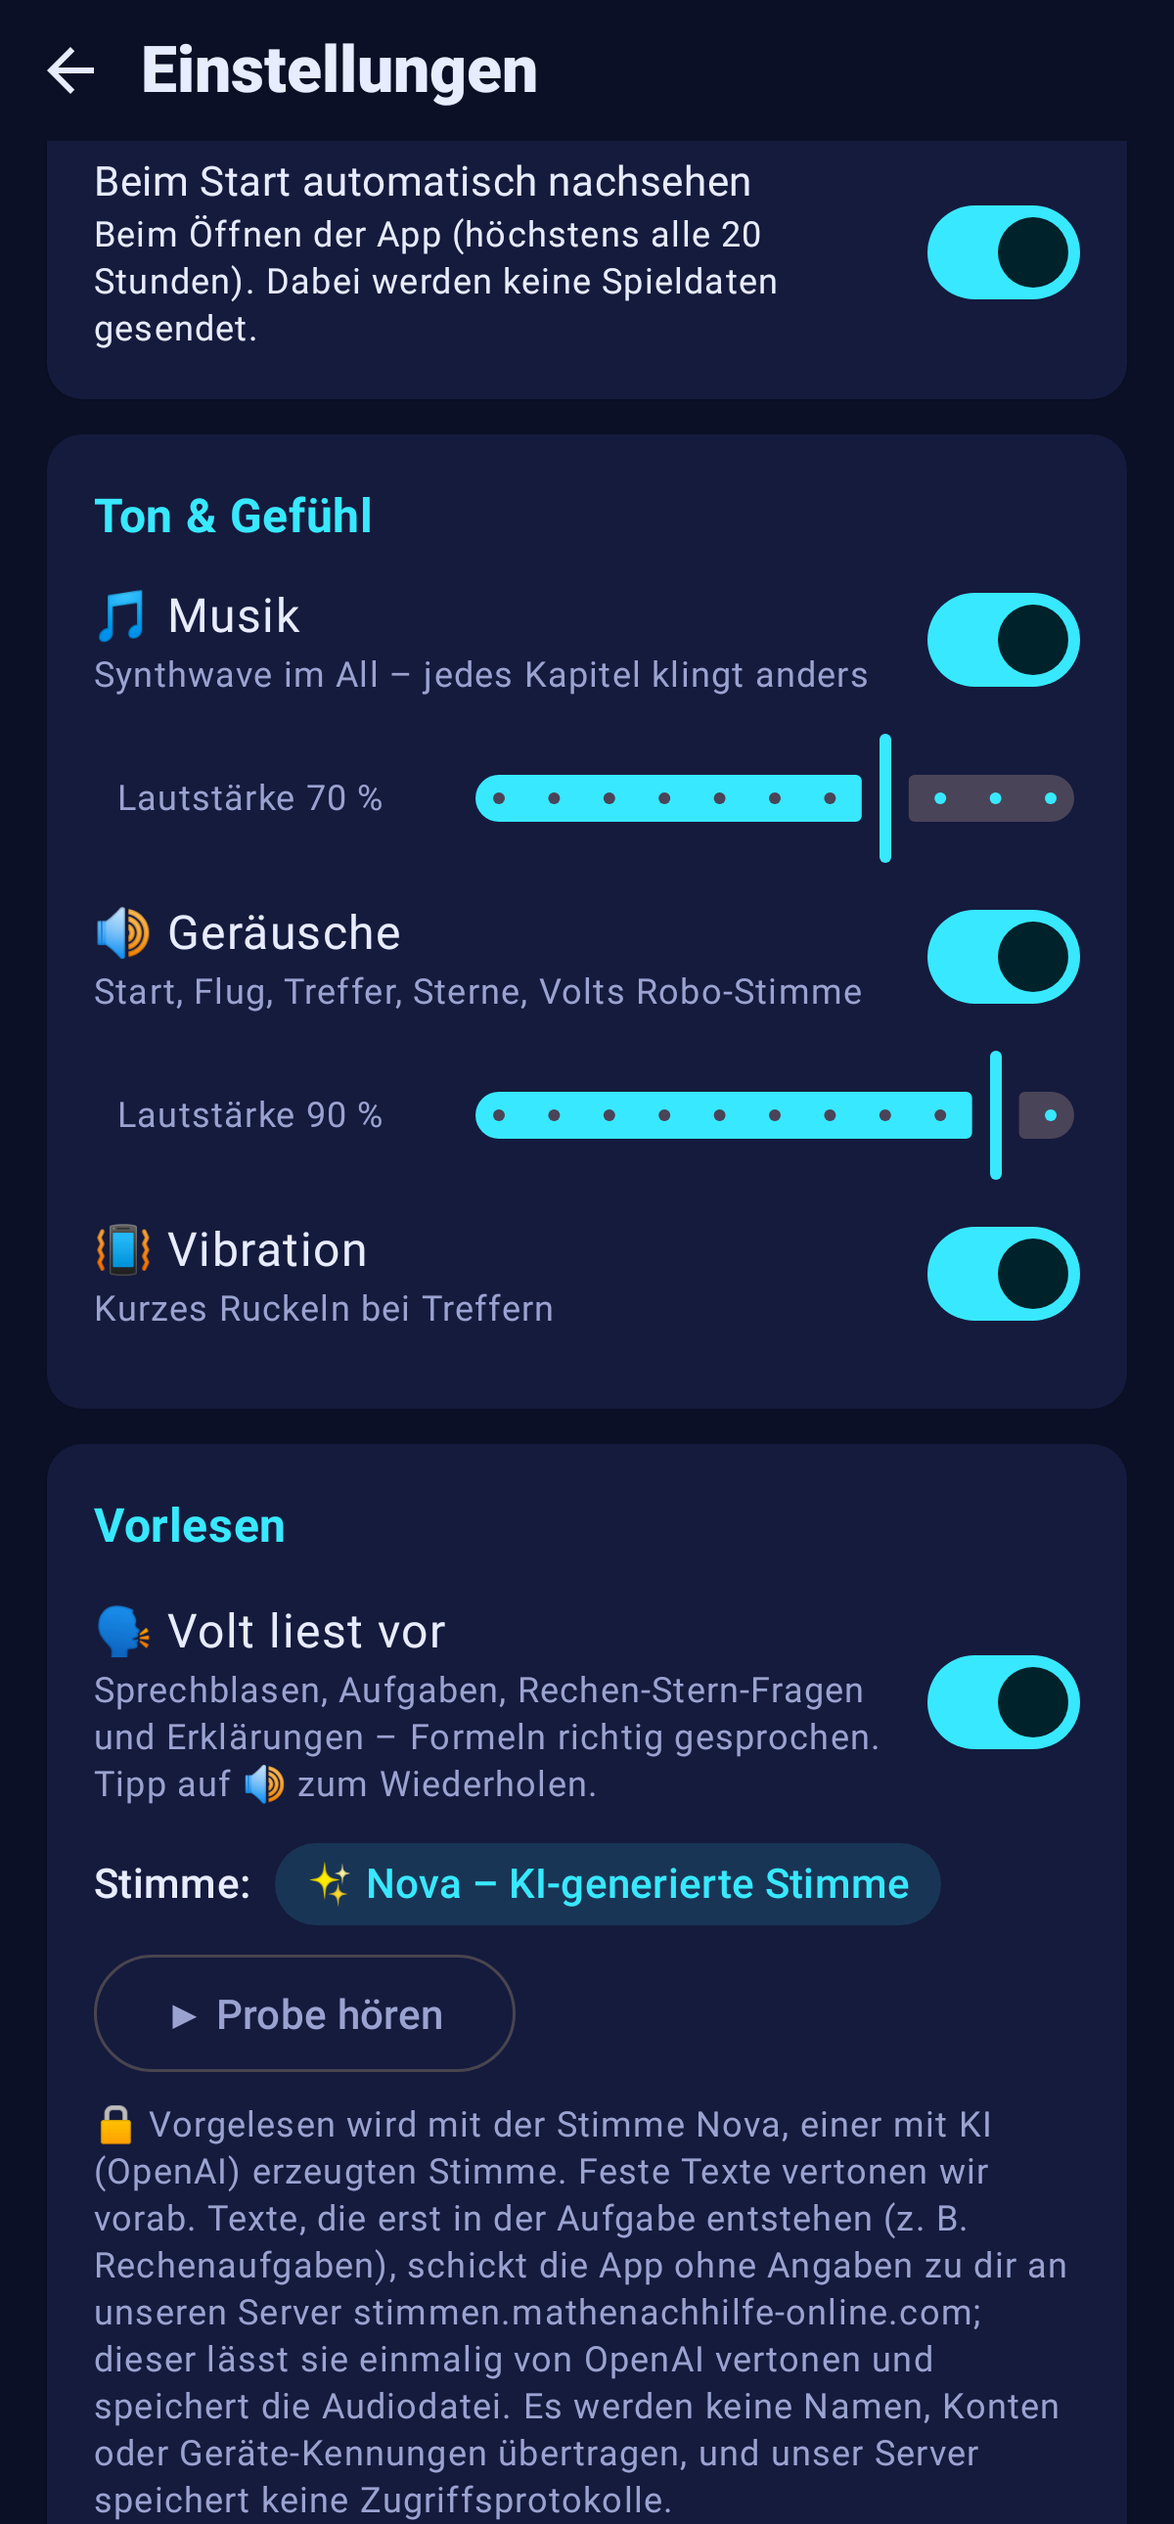
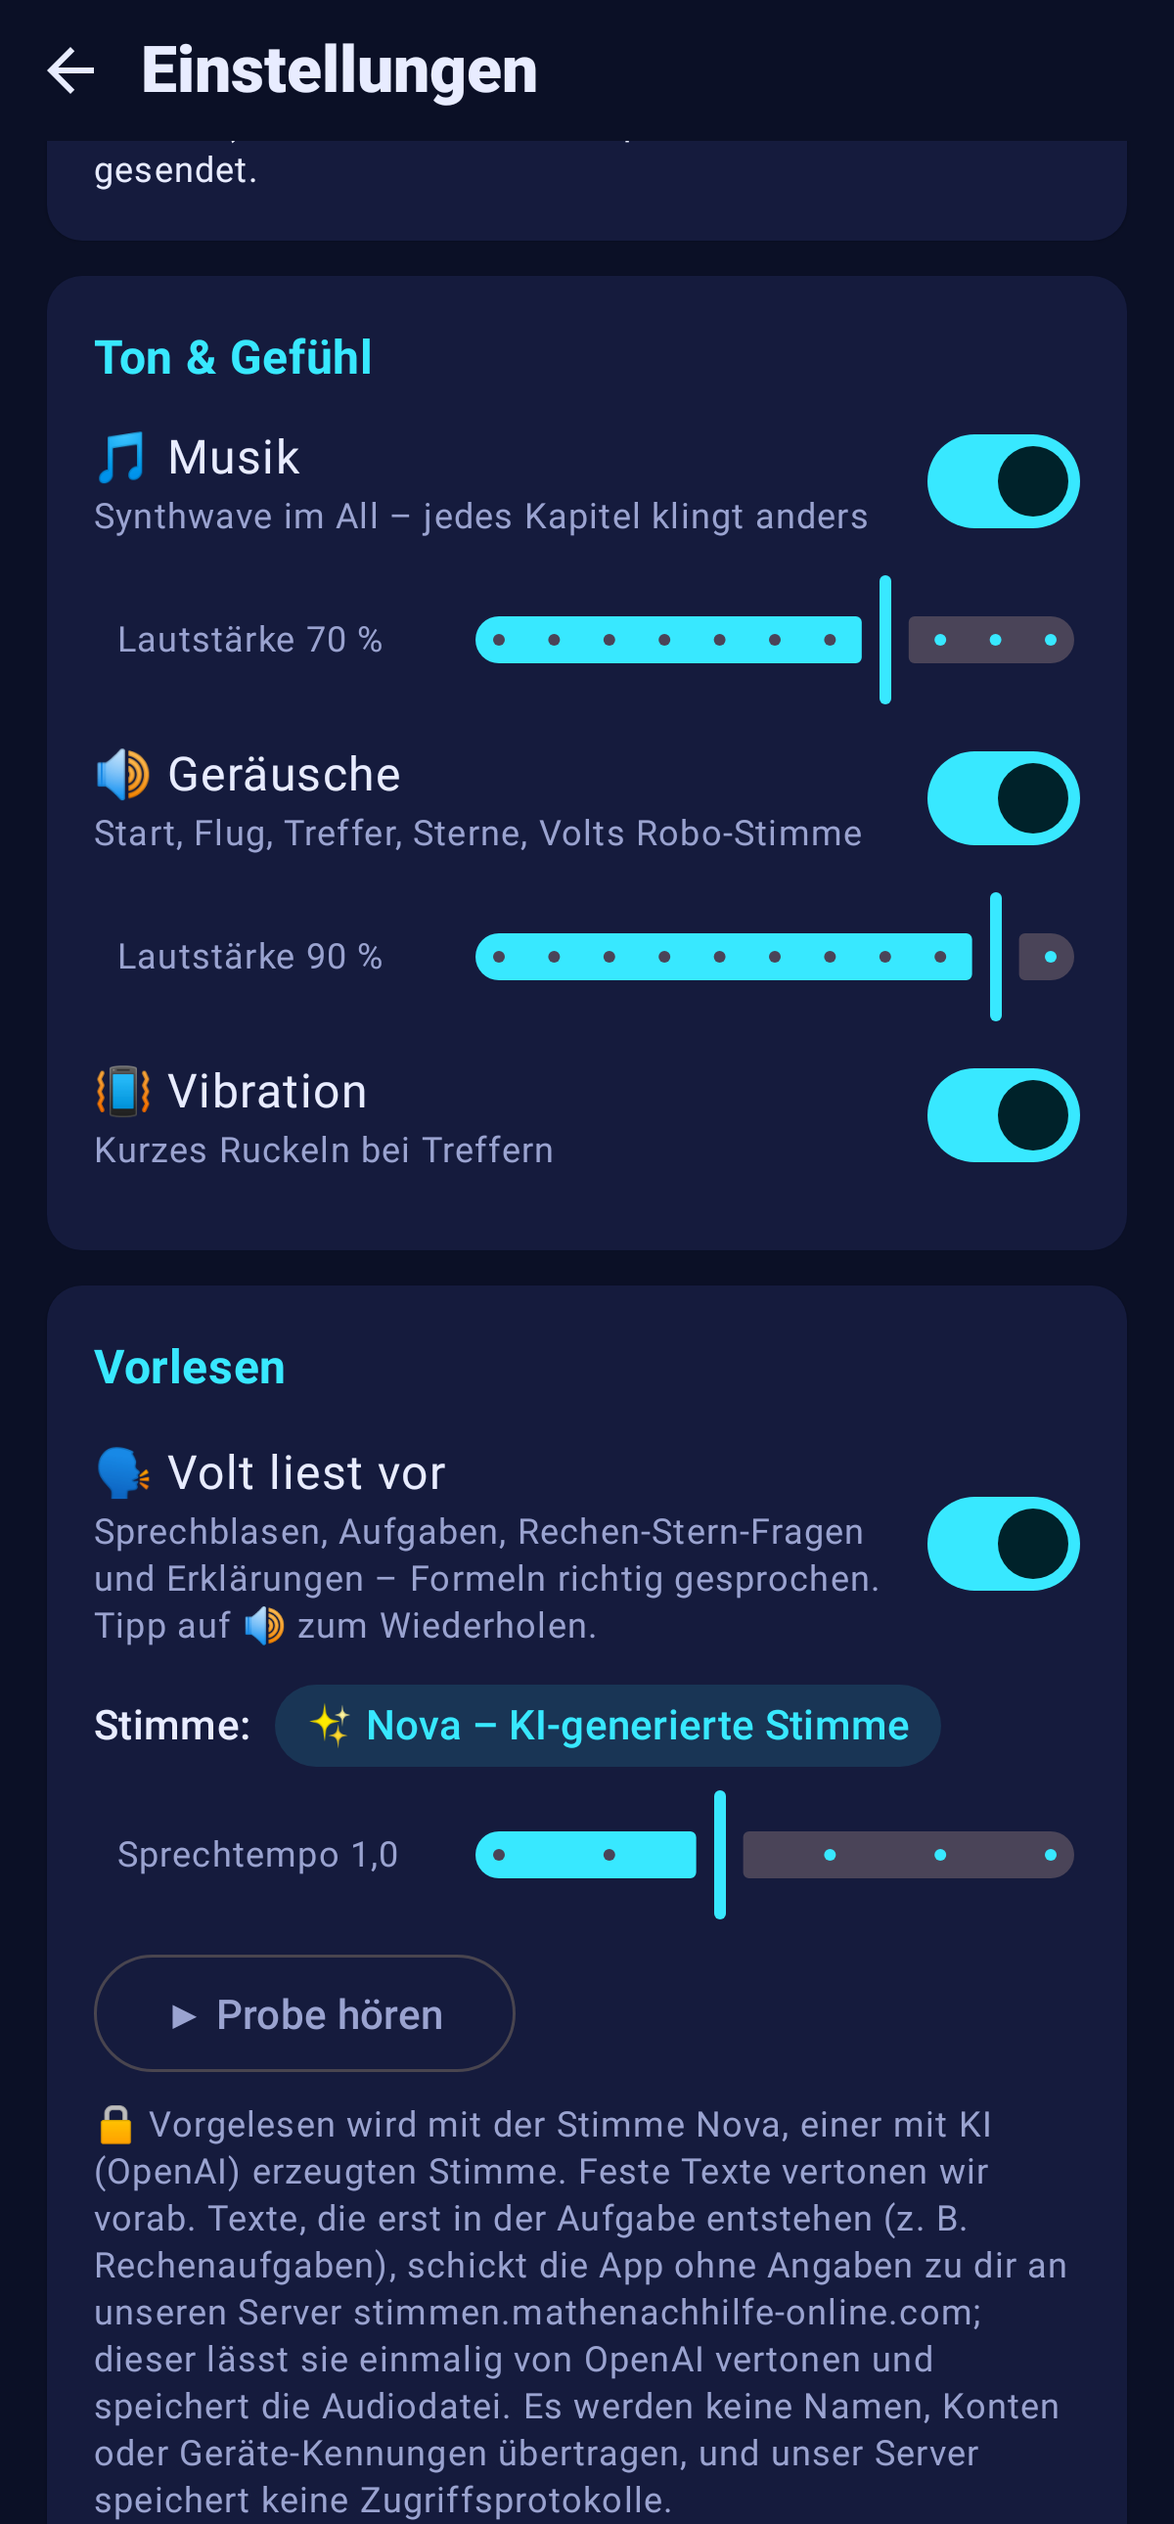
Kurvenflug 2.4.1: Regler Sprechtempo für Nova (gleiche Tonhöhe)
Claude-Session: https://claude.ai/code/session_015vg1TniCB6sLGd2dNSJdge

diff --git a/kurvenflug/web/src/wasmJsMain/resources/kf.js b/kurvenflug/web/src/wasmJsMain/resources/kf.js
@@ -141,18 +141,23 @@
   // Fertige Ansagen (MP3) von unserem Server stimmen.mathenachhilfe-online.com, zwischengespeichert im Browser (Cache „kf-nova“).
   // Texte mit Zahlen zur Laufzeit vertont unser Server auf Anfrage (/jetzt) – ohne Angaben zum Kind. Die App spricht nie mit OpenAI.
   // Notlösung (offline): eine deutsche Stimme des Browsers, die auf dem Gerät rechnet.
-  var synth = window.speechSynthesis || null, speakCb = null, novaTurn = 0, novaSrc = null;
+  var synth = window.speechSynthesis || null, speakCb = null, novaTurn = 0, novaEl = null, novaSpeed = 1;
+  KF.novaSpeed = function (v) { novaSpeed = v; if (novaEl) novaEl.playbackRate = v; };
   function speaking(b) { if (speakCb) try { speakCb(b); } catch (e) {} }
   KF.onSpeaking = function (f) { speakCb = f; };
   function deviceSay(text) {
     if (!synth) { speaking(false); return; }
     var vs = synth.getVoices().filter(function (v) { return /^de([-_]|$)/i.test(v.lang) && v.localService; });
     if (!vs.length) { speaking(false); return; }
-    var u = new SpeechSynthesisUtterance(text); u.lang = 'de-DE'; u.voice = vs[0]; u.rate = 1.1; u.pitch = 1.08;
+    var u = new SpeechSynthesisUtterance(text); u.lang = 'de-DE'; u.voice = vs[0]; u.rate = Math.min(2, 1.1 * novaSpeed); u.pitch = 1.08;
     u.onstart = function () { speaking(true); }; u.onend = u.onerror = function () { speaking(false); };
     synth.cancel(); synth.speak(u);
   }
-  function hush() { novaTurn++; if (novaSrc) { try { novaSrc.stop(); } catch (e) {} novaSrc = null; } if (synth) synth.cancel(); }
+  function hush() {
+    novaTurn++;
+    if (novaEl) { try { novaEl.pause(); URL.revokeObjectURL(novaEl.src); } catch (e) {} novaEl = null; }
+    if (synth) synth.cancel();
+  }
   KF.hush = function () { hush(); speaking(false); };
   function cached(url) {
     if (!window.caches) return fetch(url, { credentials: 'omit' }).then(function (r) { return r.ok ? r.arrayBuffer() : null; });
@@ -174,20 +179,19 @@
   }
   // url: fertige Ansage (aus der App berechnet), text: vorlesefertiger Text, ask: darf zum Vertonen an unseren Server
   KF.nova = function (url, text, ask) {
-    hush(); var my = novaTurn, c = audio();
-    if (!c) { deviceSay(text); return; }
+    hush(); var my = novaTurn;
     cached(url).then(function (b) {
       if (b || !ask || my !== novaTurn) return b;
       return live(text).then(function (u) { return u ? cached(u) : null; });
     }).then(function (b) {
       if (my !== novaTurn) return;
       if (!b) { deviceSay(text); return; }
-      return c.decodeAudioData(b).then(function (buf) {
-        if (my !== novaTurn) return;
-        var s = c.createBufferSource(); s.buffer = buf; s.connect(c.destination);
-        s.onended = function () { if (novaSrc === s) { novaSrc = null; speaking(false); } };
-        novaSrc = s; speaking(true); s.start();
-      });
+      // Audio-Element: Sprechtempo mit gleicher Tonhöhe (preservesPitch)
+      var a = new Audio(URL.createObjectURL(new Blob([b], { type: 'audio/mpeg' })));
+      a.preservesPitch = true; a.mozPreservesPitch = true; a.webkitPreservesPitch = true; a.playbackRate = novaSpeed;
+      a.onended = a.onerror = function () { if (novaEl === a) { novaEl = null; speaking(false); URL.revokeObjectURL(a.src); } };
+      novaEl = a; speaking(true);
+      return a.play().catch(function () { if (novaEl === a) { novaEl = null; deviceSay(text); } });
     }).catch(function () { if (my === novaTurn) deviceSay(text); });
   };
   // Reste der früheren Stimme „Thorsten“ (2.0–2.3) aus dem Browser-Speicher räumen

diff --git a/kurvenflug/shared/src/commonMain/kotlin/de/kurvenflug/app/ui/settings/SettingsScreen.kt b/kurvenflug/shared/src/commonMain/kotlin/de/kurvenflug/app/ui/settings/SettingsScreen.kt
@@ -40,6 +40,7 @@ fun SettingsScreen(
     onPro: (() -> Unit)? = null,
     voltVoice: Boolean = true, onVoltVoice: (Boolean) -> Unit = {},
     readAloud: Boolean = true, onReadAloud: (Boolean) -> Unit = {},
+    readSpeed: Int = 100, onReadSpeed: (Int) -> Unit = {},
 ) {
     Column(Modifier.fillMaxSize().systemBarsPadding()) {
         Row(verticalAlignment = Alignment.CenterVertically) {
@@ -61,7 +62,7 @@ fun SettingsScreen(
                     if (!readAloud) Toggle("🤖 Volt-Stimme", "Volt plappert in Roboter-Sprache, wenn er spricht", voltVoice, onVoltVoice)
                 }
             }
-            ReadAloudCard(readAloud, onReadAloud)
+            ReadAloudCard(readAloud, onReadAloud, readSpeed, onReadSpeed)
             ElevatedCard(Modifier.fillMaxWidth()) {
                 Column(Modifier.padding(16.dp), verticalArrangement = Arrangement.spacedBy(6.dp)) {
                     Text("Für Eltern & Lehrkräfte", style = MaterialTheme.typography.titleMedium, color = MaterialTheme.colorScheme.primary)
@@ -124,7 +125,7 @@ private fun ProCard(state: de.kurvenflug.app.ProState, onPro: () -> Unit) {
  * Datenschutz-Text, den der Leitstand vorgegeben hat.
  */
 @Composable
-private fun ReadAloudCard(on: Boolean, onOn: (Boolean) -> Unit) {
+private fun ReadAloudCard(on: Boolean, onOn: (Boolean) -> Unit, speed: Int, onSpeed: (Int) -> Unit) {
     val reader = de.kurvenflug.app.ui.fx.LocalReader.current
     ElevatedCard(Modifier.fillMaxWidth()) {
         Column(Modifier.padding(16.dp), verticalArrangement = Arrangement.spacedBy(6.dp)) {
@@ -135,6 +136,15 @@ private fun ReadAloudCard(on: Boolean, onOn: (Boolean) -> Unit) {
                 Text("Stimme:", style = MaterialTheme.typography.labelLarge)
                 Text("✨ ${de.kurvenflug.core.model.Nova.LABEL}", style = MaterialTheme.typography.labelLarge, color = Q.Cyan,
                     modifier = Modifier.clip(RoundedCornerShape(50)).background(Q.Cyan.copy(alpha = 0.12f)).padding(horizontal = 10.dp, vertical = 4.dp))
+            }
+            // Sprechtempo in festen Stufen (gemerkt); 1,0 = das gewählte Server-Tempo
+            val steps = de.kurvenflug.core.model.Nova.SPEEDS
+            val idx = steps.indexOf(speed).coerceAtLeast(0)
+            Row(verticalAlignment = Alignment.CenterVertically, modifier = Modifier.padding(start = 8.dp)) {
+                Text("Sprechtempo ${de.kurvenflug.core.model.Nova.speedLabel(speed)}",
+                    style = MaterialTheme.typography.bodySmall, color = Q.Muted, modifier = Modifier.width(120.dp), maxLines = 1)
+                Slider(value = idx.toFloat(), onValueChange = { onSpeed(steps[it.toInt().coerceIn(0, steps.lastIndex)]) },
+                    valueRange = 0f..steps.lastIndex.toFloat(), steps = steps.size - 2, modifier = Modifier.weight(1f))
             }
             if (reader != null) OutlinedButton(onClick = { reader.say(de.kurvenflug.app.ui.fx.Reader.PROBE) }) { Text("▶ Probe hören") }
             Text("🔒 $NOVA_PRIVACY", style = MaterialTheme.typography.bodySmall, color = Q.Muted)

diff --git a/kurvenflug/shared/src/androidMain/kotlin/de/kurvenflug/app/ui/fx/AndroidReader.kt b/kurvenflug/shared/src/androidMain/kotlin/de/kurvenflug/app/ui/fx/AndroidReader.kt
@@ -39,6 +39,9 @@ class AndroidReader(context: Context) : Reader {
 
     override fun setPrivate(words: Set<String>) { private = words }
 
+    @Volatile private var speed = 1f
+    override fun setSpeed(speed: Float) { this.speed = speed.coerceIn(0.5f, 2f); if (ttsReady) tts.setSpeechRate(1.1f * this.speed) }
+
     override fun say(text: String) {
         val spoken = Speech.clean(text); if (spoken.isEmpty()) return
         val mine = turn.incrementAndGet()
@@ -97,7 +100,10 @@ class AndroidReader(context: Context) : Reader {
         p.setDataSource(f.path)
         p.setOnCompletionListener { if (mine == turn.get()) speaking = false; it.release(); if (player === it) player = null }
         p.setOnErrorListener { mp, _, _ -> if (mine == turn.get()) speaking = false; mp.release(); if (player === mp) player = null; true }
-        p.prepare(); p.start()
+        p.prepare()
+        // Sprechtempo bei gleicher Tonhöhe
+        if (speed != 1f) p.playbackParams = p.playbackParams.setSpeed(speed).setPitch(1f)
+        p.start()
         player = p; speaking = true
     }.isSuccess
 
@@ -116,7 +122,7 @@ class AndroidReader(context: Context) : Reader {
         // nur Stimmen, die auf dem Gerät rechnen – es geht kein Text ins Netz
         runCatching { tts.voices.orEmpty().filter { it.locale.language == "de" && !it.isNetworkConnectionRequired && "notInstalled" !in it.features.orEmpty() }
             .maxByOrNull { it.quality }?.let { tts.voice = it } }
-        tts.setPitch(1.08f); tts.setSpeechRate(1.1f)
+        tts.setPitch(1.08f); tts.setSpeechRate(1.1f * speed)
         tts.setOnUtteranceProgressListener(object : UtteranceProgressListener() {
             override fun onStart(id: String?) { main.post { speaking = true } }
             override fun onDone(id: String?) { main.post { speaking = false } }

diff --git a/kurvenflug/shared/src/commonMain/kotlin/de/kurvenflug/app/Root.kt b/kurvenflug/shared/src/commonMain/kotlin/de/kurvenflug/app/Root.kt
@@ -110,6 +110,8 @@ fun KurvenflugRoot(
     val readAloud by vm.settings.readAloud.collectAsStateWithLifecycle()
     val reader = platform.reader
     LaunchedEffect(readAloud) { if (!readAloud) reader?.stop() }
+    val readSpeed by vm.settings.readSpeed.collectAsStateWithLifecycle()
+    LaunchedEffect(readSpeed) { reader?.setSpeed(readSpeed / 100f) }
     // Spielernamen gehen nie an den Stimmen-Server
     val profiles by vm.settings.profiles.collectAsStateWithLifecycle()
     LaunchedEffect(profiles) { reader?.setPrivate(profiles.map { it.name }.toSet()) }
@@ -480,6 +482,7 @@ private fun Nav(vm: AppState, platform: Platform, incomingDuel: MutableState<Str
                 onPro = if (platform.proShop != null) ({ nav.goOnce(Routes.PRO) }) else null,
                 voltVoice = vm.settings.voltVoice.collectAsStateWithLifecycle().value, onVoltVoice = vm.settings::setVoltVoice,
                 readAloud = vm.settings.readAloud.collectAsStateWithLifecycle().value, onReadAloud = vm.settings::setReadAloud,
+                readSpeed = vm.settings.readSpeed.collectAsStateWithLifecycle().value, onReadSpeed = vm.settings::setReadSpeed,
             )
         }
     }

diff --git a/kurvenflug/core/model/src/commonMain/kotlin/de/kurvenflug/core/model/Nova.kt b/kurvenflug/core/model/src/commonMain/kotlin/de/kurvenflug/core/model/Nova.kt
@@ -12,6 +12,11 @@ object Nova {
     /** Laufzeit-Texte vertonen lassen: POST {"text", "sprache"} → 200 {"url"} oder 204 (dann Gerätestimme) */
     const val LIVE = "https://$HOST/jetzt"
     const val MAX_LIVE = 300
+    /** Stufen für „Sprechtempo“ in Prozent (Vorgabe Leitstand); 100 = das Server-Tempo, das Marcel gewählt hat */
+    val SPEEDS = listOf(75, 90, 100, 115, 130, 150)
+    fun nearestSpeed(percent: Int) = SPEEDS.minBy { kotlin.math.abs(it - percent) }
+    /** „0,75“ … „1,5“ für die Anzeige */
+    fun speedLabel(percent: Int): String { val p = nearestSpeed(percent); val s = "${p / 100},${(p % 100).toString().padStart(2, '0')}".removeSuffix("0"); return if (s.endsWith(",")) s + "0" else s }
 
     /**
      * Darf dieser (vorlesefertige) Text zum Vertonen an unseren Server? Nur kurz genug und ohne Spielernamen –

diff --git a/kurvenflug/core/model/src/commonMain/kotlin/de/kurvenflug/core/data/Settings.kt b/kurvenflug/core/model/src/commonMain/kotlin/de/kurvenflug/core/data/Settings.kt
@@ -45,6 +45,10 @@ class Settings(private val prefs: Prefs) {
     /** Volt liest Sprechblasen, Aufträge, Rechen-Stern-Fragen und Erklärungen vor */
     val readAloud: StateFlow<Boolean> = _readAloud.asStateFlow()
     fun setReadAloud(v: Boolean) { prefs.edit().putBoolean("readAloud", v).apply(); _readAloud.value = v }
+    private val _readSpeed = MutableStateFlow(prefs.getInt("readSpeed", 100))
+    /** Sprechtempo in Prozent, eine der Stufen aus [de.kurvenflug.core.model.Nova.SPEEDS] (100 = Server-Tempo) */
+    val readSpeed: StateFlow<Int> = _readSpeed.asStateFlow()
+    fun setReadSpeed(v: Int) { val c = de.kurvenflug.core.model.Nova.nearestSpeed(v); prefs.edit().putInt("readSpeed", c).apply(); _readSpeed.value = c }
 
     var lastUpdateCheck: Long
         get() = prefs.getLong("lastUpdateCheck", 0)

diff --git a/kurvenflug/core/model/src/jvmTest/kotlin/de/kurvenflug/core/model/NovaTest.kt b/kurvenflug/core/model/src/jvmTest/kotlin/de/kurvenflug/core/model/NovaTest.kt
@@ -45,4 +45,9 @@ class NovaTest {
         // Prüfwert aus dem Test gegen den echten Server (17.11.)
         assertEquals("acddd8626f25b43663f8efcd3fe60a1f", Nova.hash("Schon 24 Sterne gesammelt. Weiter so, Commander!"))
     }
+
+    @Test fun speeds() {
+        assertEquals(listOf("0,75", "0,9", "1,0", "1,15", "1,3", "1,5"), Nova.SPEEDS.map(Nova::speedLabel))
+        assertEquals(100, Nova.nearestSpeed(104)); assertEquals(150, Nova.nearestSpeed(400))
+    }
 }

diff --git a/kurvenflug/shared/src/commonMain/kotlin/de/kurvenflug/app/ui/fx/Reader.kt b/kurvenflug/shared/src/commonMain/kotlin/de/kurvenflug/app/ui/fx/Reader.kt
@@ -20,6 +20,8 @@ interface Reader {
     fun stop()
     /** Spielernamen – Texte, die einen davon enthalten, gehen nie an den Server */
     fun setPrivate(words: Set<String>) {}
+    /** Sprechtempo (1 = Server-Tempo): Abspielgeschwindigkeit der Nova-Ansage bei gleicher Tonhöhe; auch für die Notlösung */
+    fun setSpeed(speed: Float) {}
 
     companion object {
         const val PROBE = de.kurvenflug.core.model.Speech.PROBE

diff --git a/kurvenflug/shared/src/wasmJsMain/kotlin/de/kurvenflug/app/Js.kt b/kurvenflug/shared/src/wasmJsMain/kotlin/de/kurvenflug/app/Js.kt
@@ -24,3 +24,4 @@ internal fun jsOnUnlock(handler: () -> Unit): Unit = js("window.KF.onUnlock(hand
 internal fun jsOnSpeaking(f: (Boolean) -> Unit): Unit = js("window.KF.onSpeaking(f)")
 internal fun jsNova(url: String, text: String, ask: Boolean): Unit = js("window.KF.nova(url, text, ask)")
 internal fun jsHush(): Unit = js("window.KF.hush()")
+internal fun jsNovaSpeed(speed: Double): Unit = js("window.KF.novaSpeed(speed)")

diff --git a/kurvenflug/shared/src/wasmJsMain/kotlin/de/kurvenflug/app/ui/fx/WebReader.kt b/kurvenflug/shared/src/wasmJsMain/kotlin/de/kurvenflug/app/ui/fx/WebReader.kt
@@ -29,6 +29,7 @@ object WebReader : Reader {
     }
 
     override fun setPrivate(words: Set<String>) { private = words }
+    override fun setSpeed(speed: Float) { runCatching { jsNovaSpeed(speed.toDouble()) } }
 
     override fun say(text: String) {
         start()

diff --git a/kurvenflug/MELDUNG_AN_LEITSTAND.md b/kurvenflug/MELDUNG_AN_LEITSTAND.md
@@ -1,5 +1,12 @@
 # Meldungen an den Leitstand – Kurvenflug WebApp
 
+## 2.4.1 – Sprechtempo (Ergänzung Marcel) · Web = APK = Play
+- Einstellungen → Vorlesen: Regler „Sprechtempo“ mit den Stufen 0,75 · 0,9 · 1,0 (Standard) · 1,15 · 1,3 · 1,5, gemerkt
+  (`Nova.SPEEDS`, Test). 1,0 = Server-Tempo.
+- Android: MediaPlayer `PlaybackParams(speed, pitch 1.0)`. Web: Wiedergabe jetzt über HTMLAudioElement mit
+  `playbackRate` und `preservesPitch = true` (statt Web-Audio-Puffer). Notlösung Gerätestimme: Sprechrate × Tempo.
+- 2.4.0 war schon ausgeliefert, daher eigener kleiner Schritt 2.4.1 (versionCode 45).
+
 ## 2.4.0 – Nur noch Nova (Vorgabe Marcel, von ihm im Chat bestätigt) · Web = APK = Play
 - **Stimmenwahl:** „Nova – KI-generierte Stimme“ (Kennzeichnung in den Einstellungen) oder Vorlesen aus. Kein Tempo-Regler
   (Server: 1,25). Probe-Taste bleibt. Bildschirmfoto `screenshots/99_vorlesen.png`.

diff --git a/kurvenflug/CHANGELOG.md b/kurvenflug/CHANGELOG.md
@@ -3,6 +3,10 @@
 Kurz und verständlich für Schüler und Eltern. Der Abschnitt der aktuellen Version erscheint automatisch
 im GitHub-Release und in der App unter „App-Update“.
 
+## 2.4.1 – 🐢🐇 Sprechtempo einstellbar
+- Neu in den Einstellungen unter „Vorlesen“: der Regler **Sprechtempo** (0,75 · 0,9 · 1,0 · 1,15 · 1,3 · 1,5). Langsamer zum
+  Mitlesen, schneller für Profis – die Stimme bleibt dabei gleich hoch. Die Wahl wird gemerkt.
+
 ## 2.4.0 – 🎙 Volt spricht jetzt mit der Stimme „Nova“
 - Volt liest mit einer neuen, sehr natürlichen Stimme vor: **„Nova – KI-generierte Stimme“**. Aufgaben, Rechen-Stern,
   Erklärungen und Volts Sprüche klingen jetzt überall gleich – im Browser, auf dem Handy und in der Play-Version.
